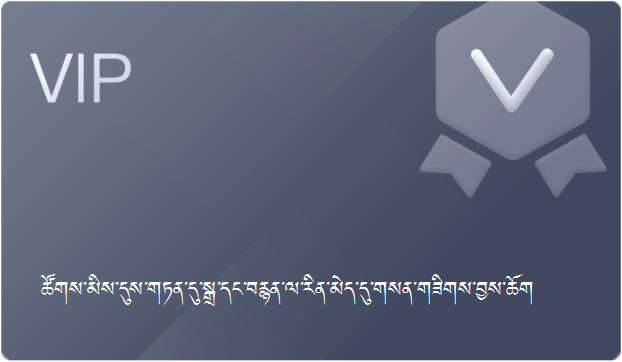
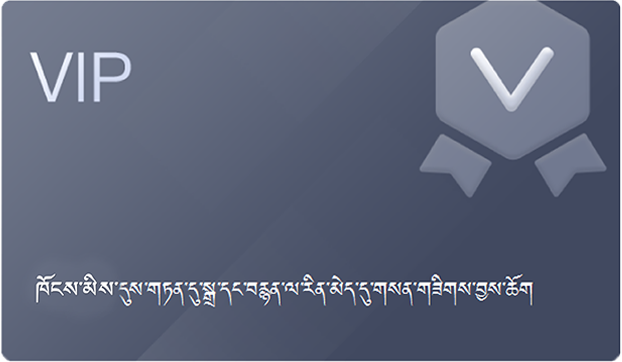
修改2

diff --git a/pages/albumDetails/albumDetails.js b/pages/albumDetails/albumDetails.js
@@ -50,6 +50,7 @@ Page({
         id = options.id
     // type: 1专辑 0单曲    mediatype: 1视频 0音频
     that.setData({id, type, mediatype})
+    // wx.setStorageSync('album_id', id)
   },
   // 介绍和歌单的切换
   changeShow (e) {
@@ -74,8 +75,23 @@ Page({
       }
 
       // 设置播放的标题和图片
-      bgMusic.title = res.media.title
-      bgMusic.coverImgUrl = this.data.url + res.media.cover
+      if(this.data.mediatype === "0"){
+        this.setData({
+          bgMusicSrc: res.media.audio,
+          showDuration: res.media.duration,
+          bgMusicTitle: res.media.title,
+          bgMusicCoverImgUrl: this.data.url + res.media.cover,
+        })
+        wx.setStorageSync('audioSrc', res.media.audio)
+        // 播放
+        if (play) {
+          this.listenerButtonPlay()
+        }
+      } else {
+        this.setData({
+          videoSrc: res.media.audio
+        })
+      }
 
       // 若是没购买直接返回
       if(res.media.is_buy === 0 && res.media.is_free === '0'){
@@ -92,6 +108,7 @@ Page({
       // 若是从一个栏目进来的则跳到播放的那首
       let playId = wx.getStorageSync('playId')
       if(playId == id){
+        console.log(playId, id)
         let state = bgMusic.paused
         if (state === false) {
           this.listenerButtonPlay()
@@ -111,32 +128,11 @@ Page({
         playId: id
       })
       wx.setStorageSync('playId', id)
-
-
-      if(this.data.mediatype === "0"){
-        this.setData({
-          bgMusicSrc: res.media.audio,
-          showDuration: res.media.duration,
-          bgMusicTitle: res.media.title,
-          bgMusicCoverImgUrl: this.data.url + res.media.cover,
-        })
-        wx.setStorageSync('audioSrc', res.media.audio)
-        // 播放
-        if (play) {
-          this.listenerButtonPlay()
-        }
-      } else {
-        this.setData({
-          videoSrc: res.media.audio
-        })
-      }
-     
-      
     })
   },
   // 请求数据
   getData (id = this.data.id) {
-    let that = this, histroyId = wx.getStorageSync('history')[0].item[0].id, playId = wx.getStorageSync('playId')
+    let that = this, histroyId = wx.getStorageSync('history')[0].item[0].id, playId = wx.getStorageSync('playId'), album_id = wx.getStorageSync('album_id')
     comdetails({id, media_type: -1, token: wx.getStorageSync('token')}).then(res => {
       // console.log(res)
         that.setData({
@@ -157,11 +153,12 @@ Page({
         that.sharecar()
         
         // 获取播放地址
-        if(histroyId == that.data.id){
+        if(album_id == that.data.id){
           that.getMedia(1, playId)
         } else {
           that.getMedia(1, res.media.media[0].id)
           // wx.setStorageSync('playId', res.media.media[0].id)
+          wx.setStorageSync('album_id', that.data.id)
         }
 
         

diff --git a/font/methods.js b/font/methods.js
@@ -108,5 +108,15 @@ function indent () {
     // console.log(lanIndex)
     return obj
 }
+function member () {
+    util.fontFamily()
+    let lanIndex = wx.getStorageSync('lan');
+    let obj = {}
+    for (let key in font.member) {
+        obj[key] = font.member[key][lanIndex]
+    }
+    // console.log(lanIndex)
+    return obj
+}
 
-module.exports = { index, components, myCourse, my, paddingpayment, albumDetail, albumOrder, bookFont, classifyDetail, bookdetail, bookorder, indent }
+module.exports = { index, components, myCourse, my, paddingpayment, albumDetail, albumOrder, bookFont, classifyDetail, bookdetail, bookorder, indent, member }

diff --git a/font/index.js b/font/index.js
@@ -1,2 +1,2 @@
-import { index, components, myCourse, my, paddingpayment, albumDetail, albumOrder, bookFont, classifyDetail, bookdetail, bookorder, indent } from "./methods"
-export { index, components, myCourse, my, paddingpayment, albumDetail, albumOrder, bookFont, classifyDetail, bookdetail, bookorder, indent }
+import { index, components, myCourse, my, paddingpayment, albumDetail, albumOrder, bookFont, classifyDetail, bookdetail, bookorder, indent, member } from "./methods"
+export { index, components, myCourse, my, paddingpayment, albumDetail, albumOrder, bookFont, classifyDetail, bookdetail, bookorder, indent, member }

diff --git a/font/font.js b/font/font.js
@@ -163,4 +163,9 @@ module.exports =  {
         saveLoc: ['保存到本地', 'པར་རིས་ཉར་ཚགས་བྱེད།'],
         imgSave: ['图片已保存','པར་རིས་ཉར་ཚགས་བྱས་ཡོད།'],
     },
+    member: {
+        vip: ["VIP 会员", "VIP ཁོངས་མི།"],
+        noDredge: ["开通会员", "ཁོངས་མིར་ཐོ་འགོད་བྱེད།"],
+        isDredge: ["已开通会员", "ཁོངས་མིར་གྱུར་ཡོད།"]
+    }
 }

diff --git a/pages/member/member.js b/pages/member/member.js
@@ -1,6 +1,7 @@
 // pages/member/member.js
 var app = getApp()
 var util = require('../../utils/util')
+import { member } from "../../font/index"
 Page({
 
   /**
@@ -74,6 +75,9 @@ Page({
           money: res.data.vipmoney
         })
       }
+    })
+    this.setData({
+      pageFont: member()
     })
   },
 

diff --git a/app.js b/app.js
@@ -19,7 +19,7 @@ App({
     if(!lan){
       wx.setStorage({
         key: 'lan',
-        data: 0
+        data: 1
       });
     }
     //判断用户是否登录
